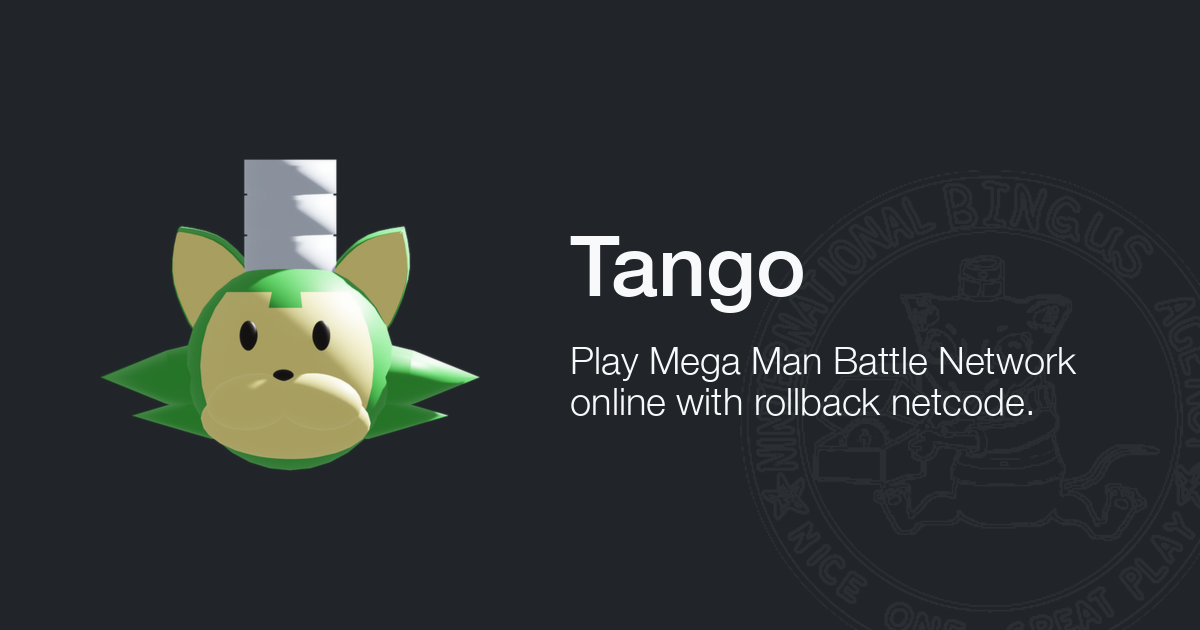
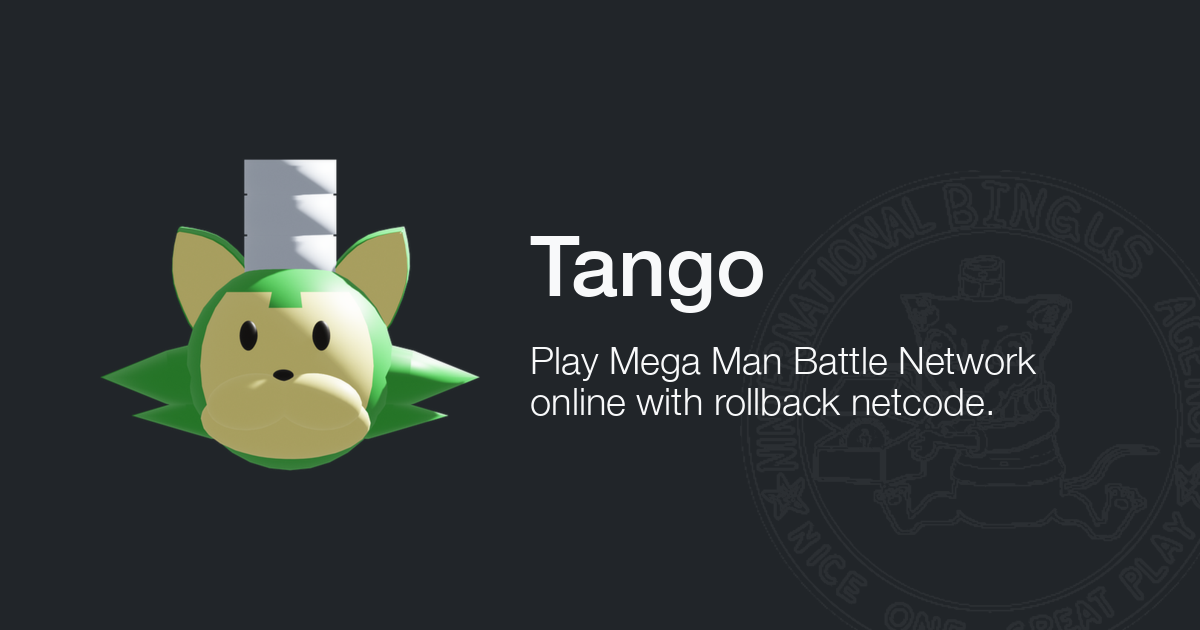
make margins parametric

Changed region(s): [[0.4317, 0.5429, 0.8942, 0.6635], [0.4317, 0.3619, 0.6783, 0.5127]]

diff --git a/generate_card.py b/generate_card.py
@@ -26,7 +26,7 @@ def wrap_text(
             lines[-1] = word
             curr_line_width = word_width
         else:
-            new_line_width = font.getlength(f"{lines[-1]}{word}", direction)
+            new_line_width = font.getlength(f"{lines[-1]}{word}".lstrip(), direction)
 
             if new_line_width > max_width:
                 # Word is too long to fit on the current line
@@ -37,7 +37,7 @@ def wrap_text(
                 curr_line_width = word_width
             else:
                 # Put the word on the current line
-                lines[-1] = f"{lines[-1]}{word}"
+                lines[-1] = f"{lines[-1]}{word}".lstrip()
                 curr_line_width = new_line_width
 
     return "\n".join(lines)
@@ -51,10 +51,13 @@ for lang, d in config["languages"].items():
         emblem, (img.width - emblem.width + 40, img.height - emblem.height + 40), emblem
     )
 
+    margin_h = 100
+    logo_spacing = 50
+
     logo = Image.open("static/logo.png").resize((380, 380))
     img.paste(
         logo,
-        (100, img.height // 2 - logo.height // 2),
+        (margin_h, img.height // 2 - logo.height // 2),
         logo,
     )
 
@@ -67,7 +70,7 @@ for lang, d in config["languages"].items():
     wrapped_description = wrap_text(
         description_font,
         d["translations"]["home-lead"],
-        600,
+        img.width - logo.width - margin_h - logo_spacing - margin_h,
     )
 
     _, _, _, description_height = dr.multiline_textbbox(
@@ -80,10 +83,15 @@ for lang, d in config["languages"].items():
     offset = img.height // 2 - text_height // 2
 
     dr.fontmode = "L"
-    dr.text((570, offset), "Tango", fill=(0xF8, 0xF9, 0xFA), font=title_font)
+    dr.text(
+        (margin_h + logo.width + logo_spacing, offset),
+        "Tango",
+        fill=(0xF8, 0xF9, 0xFA),
+        font=title_font,
+    )
 
     dr.text(
-        (570, offset + title_height + spacing),
+        (margin_h + logo.width + logo_spacing, offset + title_height + spacing),
         wrapped_description,
         fill=(0xF8, 0xF9, 0xFA),
         font=description_font,
